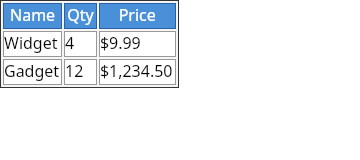
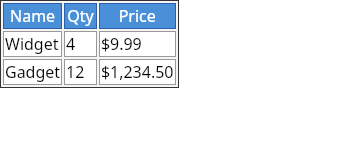
tables: keep separate-model cell content inside the cell borders (layers gate regression); recapture layers baseline for tables-collapse

diff --git a/src/layout/tables.ts b/src/layout/tables.ts
@@ -1679,6 +1679,11 @@ export function layoutTableContent(input: TableLayoutInput): TableLayoutResult {
       const s = cell.style;
       const insets = collapse?.insets.get(cell) ?? { top: 0, right: 0, bottom: 0, left: 0 };
       const cellStyle = isCollapsed ? collapseCellStyle(s) : s;
+      // The content box sits inside the cell's own borders (separate) or the
+      // half-border insets (collapse — the cellStyle borders are zeroed).
+      const effB = isCollapsed
+        ? insets
+        : { top: s.borderWidth.top, right: s.borderWidth.right, bottom: s.borderWidth.bottom, left: s.borderWidth.left };
       const snapshot = paints.length;
       const node = layoutElementBox(
         cell.el,
@@ -1687,9 +1692,9 @@ export function layoutTableContent(input: TableLayoutInput): TableLayoutResult {
         0,
         0,
         w,
-        insets.left + (resolveLength(s.padding.left, w, viewport) ?? 0),
-        insets.top + (resolveLength(s.padding.top, w, viewport) ?? 0),
-        Math.max(0, w - insets.left - insets.right - (resolveLength(s.padding.left, w, viewport) ?? 0) - (resolveLength(s.padding.right, w, viewport) ?? 0)),
+        effB.left + (resolveLength(s.padding.left, w, viewport) ?? 0),
+        effB.top + (resolveLength(s.padding.top, w, viewport) ?? 0),
+        Math.max(0, w - effB.left - effB.right - (resolveLength(s.padding.left, w, viewport) ?? 0) - (resolveLength(s.padding.right, w, viewport) ?? 0)),
         styles,
         paints,
         nextOrder,
@@ -1701,7 +1706,7 @@ export function layoutTableContent(input: TableLayoutInput): TableLayoutResult {
       // feeds the row raw, probed: td height:80 with 1px padding yields an
       // 80px row) and the specified height itself.
       const specH = resolveLength(s.height, w, viewport);
-      const pbv = borderPaddingBlock(cellStyle, w, viewport) + insets.top + insets.bottom;
+      const pbv = borderPaddingBlock(cellStyle, w, viewport) + (isCollapsed ? insets.top + insets.bottom : 0);
       measures.set(cell, {
         contentHeight: node.contentHeight + pbv,
         cssHeight: specH,
@@ -1816,9 +1821,13 @@ export function layoutTableContent(input: TableLayoutInput): TableLayoutResult {
         const bBc = s.borderWidth.bottom;
         // Collapse cells carry no own borders; the half-insets take their
         // place in the vertical-align algebra (the insets bound the content
-        // box, and the shared border paints centered on the cell edge).
+        // box, and the shared border paints centered on the cell edge). The
+        // separate model keeps the cell's own border widths as the inset.
         const vTopBorder = isCollapsed ? insets.top : bTc;
         const vBottomBorder = isCollapsed ? insets.bottom : bBc;
+        const effL = isCollapsed ? insets.left : bLc;
+        const effR = isCollapsed ? insets.right : s.borderWidth.right;
+        const effT = vTopBorder;
         const padTc = resolveLength(s.padding.top, w, viewport) ?? 0;
         const padBc = resolveLength(s.padding.bottom, w, viewport) ?? 0;
         let contentShift = 0;
@@ -1840,9 +1849,9 @@ export function layoutTableContent(input: TableLayoutInput): TableLayoutResult {
           x,
           rowY,
           w,
-          x + insets.left + (resolveLength(s.padding.left, w, viewport) ?? 0),
-          rowY + insets.top + padTc + contentShift,
-          Math.max(0, w - insets.left - insets.right - (resolveLength(s.padding.left, w, viewport) ?? 0) - (resolveLength(s.padding.right, w, viewport) ?? 0)),
+          x + effL + (resolveLength(s.padding.left, w, viewport) ?? 0),
+          rowY + effT + padTc + contentShift,
+          Math.max(0, w - effL - effR - (resolveLength(s.padding.left, w, viewport) ?? 0) - (resolveLength(s.padding.right, w, viewport) ?? 0)),
           styles,
           paints,
           nextOrder,

diff --git a/docs/ledgers/layers.md b/docs/ledgers/layers.md
@@ -1,6 +1,6 @@
 # Layers Ledger — selective render entry functions
 
-- Generated: 2026-09-03T17:35:51.802Z
+- Generated: 2026-09-04T05:38:16.677Z
 - Gate: `node scripts/verify-layers.mjs` (session-idle `*layers*` case)
 - Coverage: every corpus fixture with `harvest.html` + a viewport; each selective layer must equal the same layer from a full `renderHtml` call byte-identical.
 - Method: `computedStylesOf` = prepare (parse+cascade+resolveStyles), `rectsOf` = prepare+layout, `renderHtml` = prepare+layout+paint. The three entry calls run back-to-back per pass; layout = rectsOf − styles-only and paint = renderHtml − rectsOf are attributed within the same pass so noise shifts all three equally, and the minimum of 9 passes wins for each quantity. Milliseconds.
@@ -9,9 +9,9 @@
 
 | fixture | cascade ms | layout ms | paint ms | full ms |
 |---|---|---|---|---|
-| basic-text | 0.44 | 0.214 | 4.645 | 5.415 |
-| boxes | 0.399 | 0.007 | 3.358 | 4.505 |
-| inline-styles | 0.525 | 0.141 | 2.382 | 4.617 |
-| replaced-boxes | 0.479 | -0.682 | 4.677 | 5.381 |
-| wrapping | 0.321 | -2.124 | 4.027 | 4.593 |
+| basic-text | 0.41 | 0.226 | 3.982 | 5.241 |
+| boxes | 0.353 | -3.181 | 3.763 | 4.393 |
+| inline-styles | 0.508 | 0.303 | 3.486 | 4.477 |
+| replaced-boxes | 0.439 | 0.115 | 4.418 | 5.288 |
+| wrapping | 0.295 | 0.201 | 3.976 | 4.563 |
 

diff --git a/docs/ledgers/text-measure.md b/docs/ledgers/text-measure.md
@@ -8,7 +8,7 @@ Per-string shaped advances resolved against the registered font set: the engine 
 
 ## Latest Run
 
-- Generated: 2026-09-03T17:36:22.495Z
+- Generated: 2026-09-04T05:33:24.946Z
 - Strings measured: 96 (96 pass corpus + 0 documented known gaps)
 - Pass rate (pass corpus): 100.0% (96/96 within tolerance)
 - Mean delta (pass corpus): 0.0025px

diff --git a/docs/ledgers/sweep.md b/docs/ledgers/sweep.md
@@ -12,7 +12,7 @@ Programmatic breadth for the charter §11 coverage matrix: `scripts/generate-swe
 
 ## Latest Run
 
-- Generated: 2026-09-04T05:30:38.616Z
+- Generated: 2026-09-04T05:33:07.456Z
 - Fixtures swept: 110
 - Passing: 110
 - Documented divergences (typed gaps, still diverging): 0
